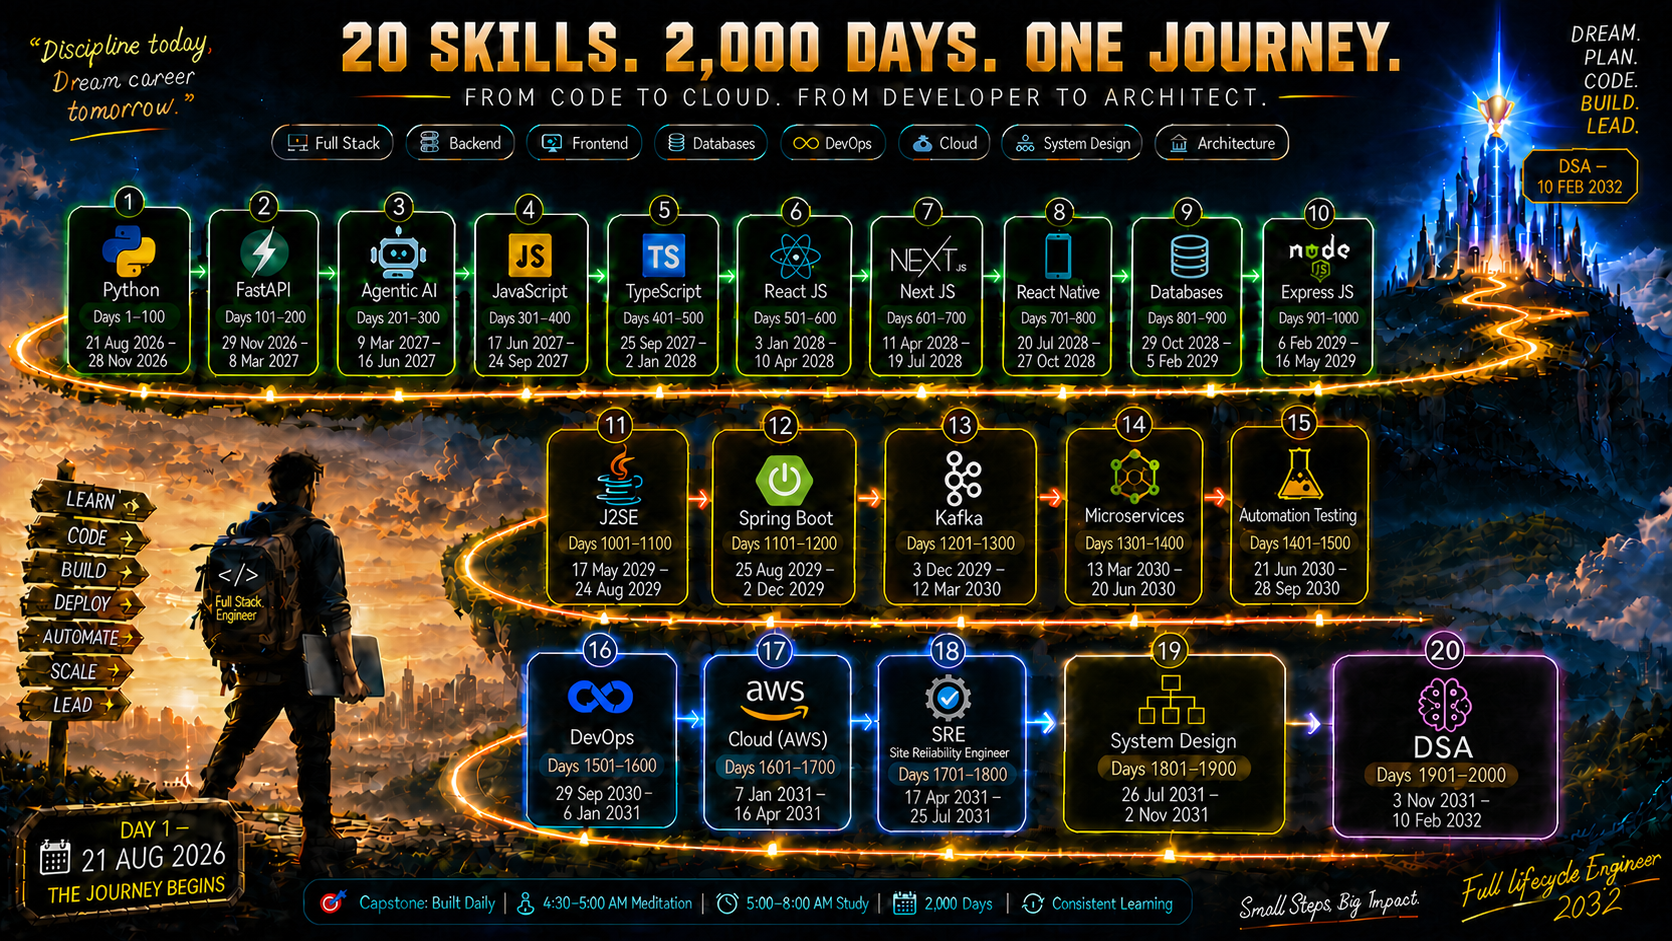
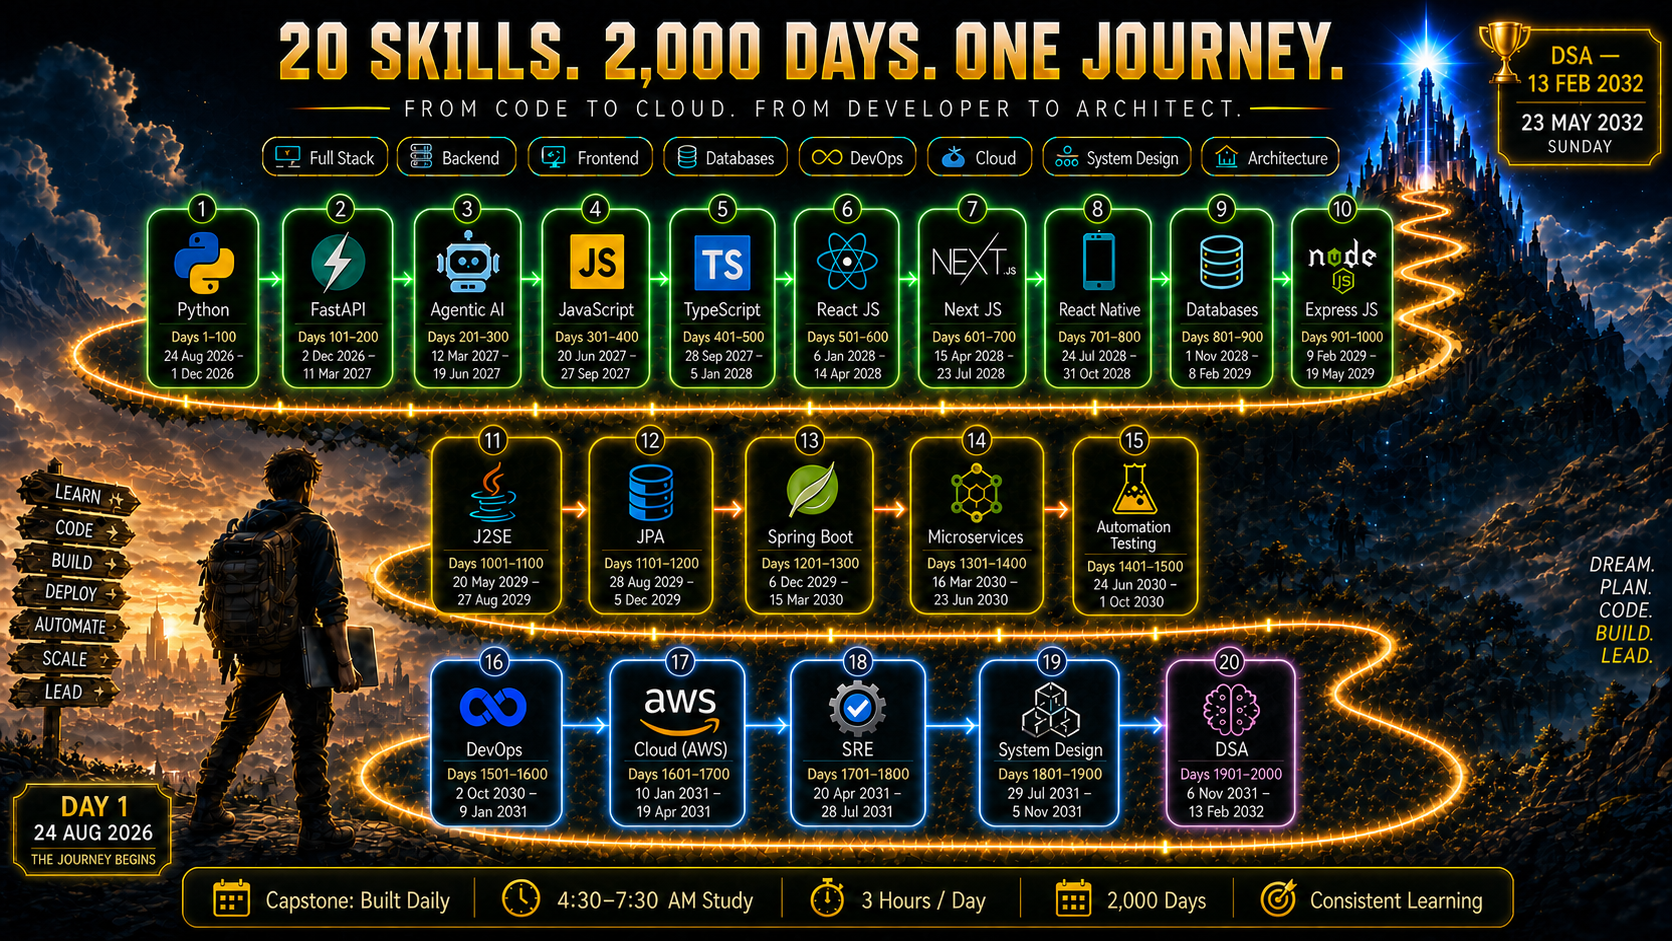
Use 2000_days.png as the roadmap poster image

diff --git a/src/pages/RoadmapHome.jsx b/src/pages/RoadmapHome.jsx
@@ -302,7 +302,7 @@ export default function RoadmapHome() {
         style={{ margin: '8px auto 4px', textAlign: 'center', maxWidth: '820px' }}
       >
         <img
-          src="/roadmap-notes/2100_days.png"
+          src="/roadmap-notes/2000_days.png"
           alt="21 Skills. 2,100 Days. One Journey. — Full Lifecycle Engineer roadmap: Python → FastAPI → Agentic AI → JavaScript → TypeScript → React JS → Next JS → React Native → Databases → Express JS → J2SE → JPA → Spring Boot → Microservices → Automation Testing → DevOps → Cloud (AWS) → SRE → System Design → DSA. Day 1: 24 Aug 2026 · Day 2,000: 13 Feb 2032."
           loading="eager"
           style={{
